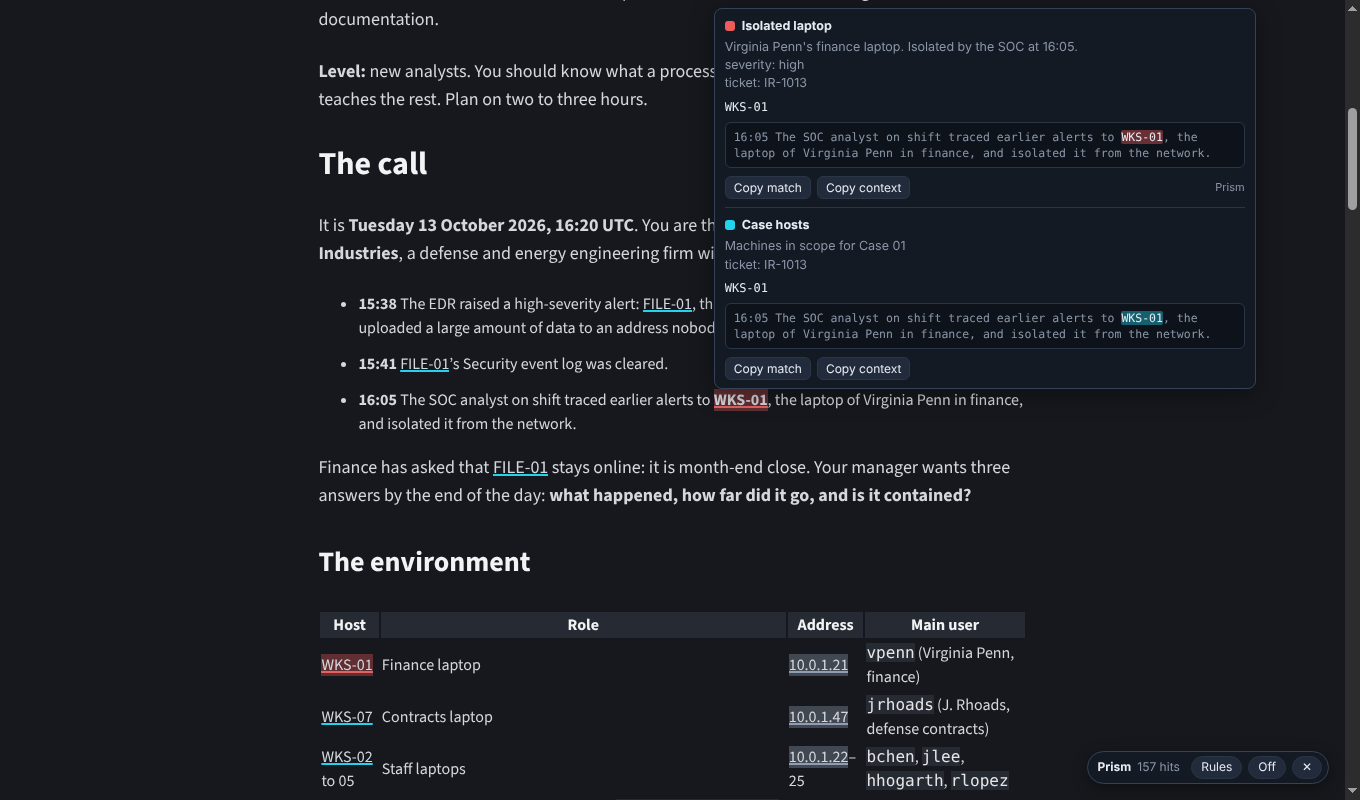
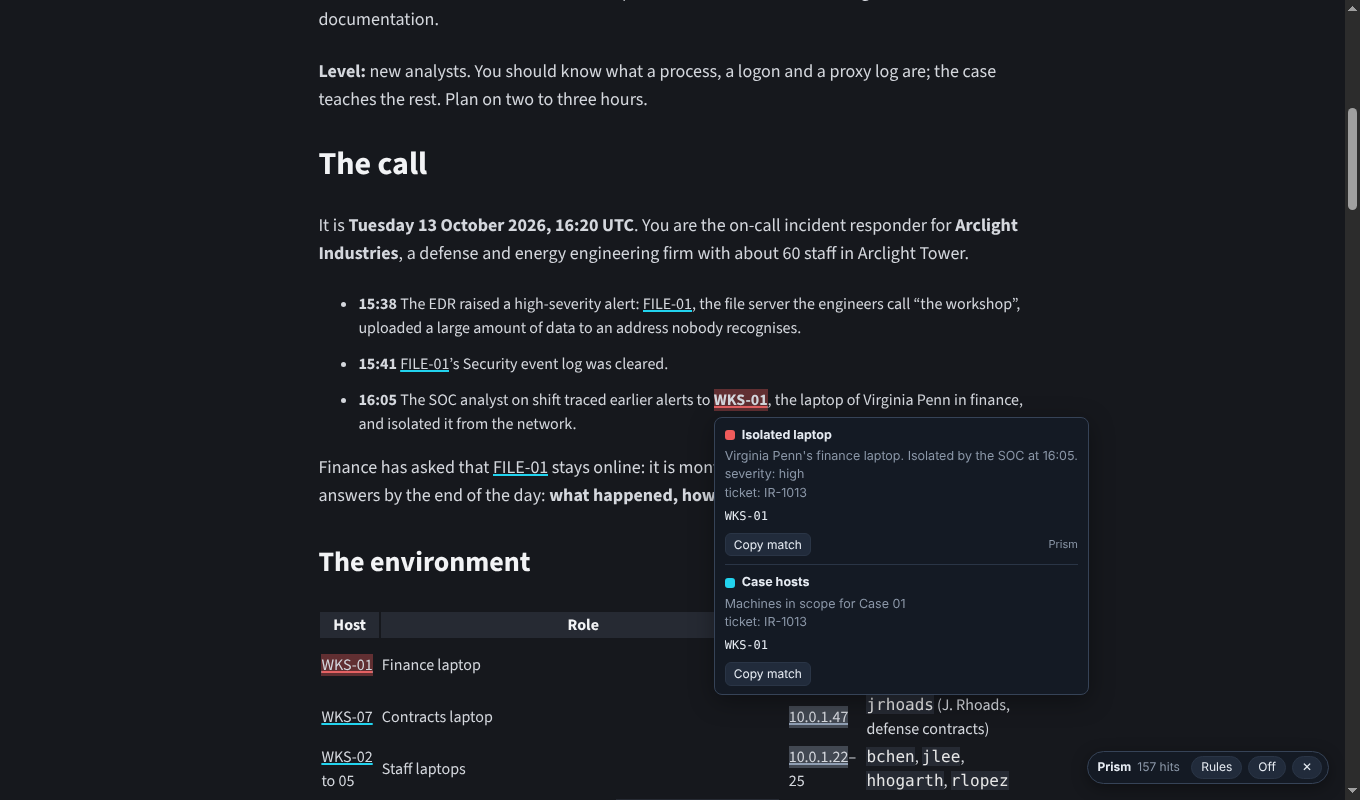
Hover card: context off by default; --context [N] turns it on
On a live page the text around a hit is already on screen, so the card showed it twice.
--context alone shows 100 characters each side, --context N sets the length, and --context 0
now really means off (it used to fall back to 100).

Claude-Session: https://claude.ai/code/session_0174XPAiV5Ghbm6NBtzpFKot

diff --git a/engine.js b/engine.js
@@ -9,7 +9,7 @@
  * - Makes no network requests and saves nothing. Rules come from the controller and live in memory only.
  *
  * globalThis.__PRISM_BOOT__ (set by the controller just before this file):
- *   { rules, starter, enabled, ui, contextChars }  rules and starter are .prism.json text the controller built from files
+ *   { rules, starter, enabled, ui, contextChars (0 = no context on the hover card) }  rules and starter are .prism.json text the controller built from files
  * Source: https://jon.glass/prism/ · MIT © 2026 Jon Glass
  */
 // The run's promise, so the controller can wait for rules to be checked and running before it reports back
@@ -17,7 +17,9 @@ globalThis.__PRISM_READY__ = (async () => {
   'use strict';
 
   const BOOT = globalThis.__PRISM_BOOT__ || {};
-  const CONTEXT_CHARS = BOOT.contextChars || 100;
+  // Characters of surrounding text shown on the hover card. Off (0) unless the controller's --context asks for it:
+  // on a live page the text around a hit is already on screen.
+  const CONTEXT_CHARS = Math.max(0, Number(BOOT.contextChars) || 0);
   // Web pages and local files only: leave edge://, about:, devtools and extension pages alone
   if (!/^(https?|file):$/.test(location.protocol)) return;
   let TOP = true; try { TOP = window.top === window; } catch (e) { TOP = false; }
@@ -209,7 +211,7 @@ globalThis.__PRISM_READY__ = (async () => {
     const byId = new Map(rules.map((r) => [r.id, r]));
     list = list.slice().sort((x, y) => byId.get(y.rid).prio - byId.get(x.rid).prio).slice(0, 4);
     card.innerHTML = list.map((h, i) => {
-      const r = byId.get(h.rid), cx = context(node, h), [R, G, B] = rgb(r.color);
+      const r = byId.get(h.rid), cx = ctxChars > 0 ? context(node, h) : null, [R, G, B] = rgb(r.color);
       let groups = '';
       if (h.g) {
         const rows = [], named = h.g.n ? Object.entries(h.g.n).filter(([, v]) => v != null) : [], vals = named.map(([, v]) => v);
@@ -221,8 +223,8 @@ globalThis.__PRISM_READY__ = (async () => {
         <div class="head"><span class="chip" data-bg="${r.color}"></span><b>${esc(r.name)}</b></div>
         ${r.desc ? `<div class="desc">${esc(r.desc)}</div>` : ''}
         <div class="val mono">${esc(node.data.slice(h.s, h.e))}</div>${groups}
-        <div class="ctx mono">${esc(cx.before)}<mark data-bg="rgba(${R},${G},${B},.4)">${esc(cx.match)}</mark>${esc(cx.after)}</div>
-        <div class="act"><button data-copy="val">Copy match</button><button data-copy="ctx">Copy context</button>${i === 0 ? '<span class="brand">Prism</span>' : ''}</div>
+        ${cx ? `<div class="ctx mono">${esc(cx.before)}<mark data-bg="rgba(${R},${G},${B},.4)">${esc(cx.match)}</mark>${esc(cx.after)}</div>` : ''}
+        <div class="act"><button data-copy="val">Copy match</button>${cx ? '<button data-copy="ctx">Copy context</button>' : ''}${i === 0 ? '<span class="brand">Prism</span>' : ''}</div>
       </div>`;
     }).join('');
     card.querySelectorAll('[data-bg]').forEach((e) => { e.style.background = e.dataset.bg; }); // CSSOM: allowed under a strict CSP
@@ -240,8 +242,8 @@ globalThis.__PRISM_READY__ = (async () => {
   shadow.addEventListener('click', async (e) => {
     const b = e.target.closest('button'); if (!b || !card._data) return;
     const { node, list } = card._data, h = list[+b.closest('.hit').dataset.i];
-    const cx = context(node, h);
-    const text = b.dataset.copy === 'val' ? node.data.slice(h.s, h.e) : cx.before.replace(/^…/, '') + cx.match + cx.after.replace(/…$/, '');
+    const cx = b.dataset.copy === 'ctx' ? context(node, h) : null;
+    const text = !cx ? node.data.slice(h.s, h.e) : cx.before.replace(/^…/, '') + cx.match + cx.after.replace(/…$/, '');
     try { await navigator.clipboard.writeText(text); b.textContent = 'Copied'; } catch (err) { b.textContent = 'Copy blocked'; }
   });
   host.addEventListener('mouseenter', () => { overCard = true; clearTimeout(hideT); });

diff --git a/prism_cdp.py b/prism_cdp.py
@@ -625,7 +625,9 @@ async def main():
     ap.add_argument("--headless", action="store_true", help="run the launched browser headless (testing)")
     ap.add_argument("--no-ui", action="store_true", help="no floating Prism control in pages")
     ap.add_argument("--off", action="store_true", help="start with highlighting off")
-    ap.add_argument("--context", type=int, default=100, help="characters of context in the hover card (default 100)")
+    ap.add_argument("--context", type=int, nargs="?", const=100, default=0, metavar="N",
+                    help="show the text around each hit on the hover card: N characters each side (bare --context: 100). "
+                         "Off by default, since on a live page that text is already on screen")
     ap.add_argument("--verbose", "-v", action="store_true")
     args = ap.parse_args()
     if args.starter:

diff --git a/README.md b/README.md
@@ -2,7 +2,7 @@
 
 Prism highlighting on every page you visit in Microsoft Edge or Google Chrome, driven from a small Python controller over the Chrome DevTools Protocol. No extension needed.
 
-Same engine as [Prism](https://jon.glass/prism/): regex rules color matches as pages load and change, and hovering a hit shows its rule, capture groups and the text around it. Your signatures come from a CSV file, and any extra columns (severity, MITRE ID, ticket…) show on the hover card.
+Same engine as [Prism](https://jon.glass/prism/): regex rules color matches as pages load and change, and hovering a hit shows its rule, its notes and capture groups. Your signatures come from a CSV file, and any extra columns (severity, MITRE ID, ticket…) show on the hover card.
 
 **Good for:** Seeing your indicators and patterns in the consoles you already work in, like ticket queues, EDR and SIEM pages and web chat, without copying text out.
 
@@ -89,7 +89,7 @@ Type these at the `prism_cdp.py` prompt:
 | `open <url>` | Open a new tab |
 | `quit` (or Ctrl+C, or Ctrl+Break on Windows) | Remove Prism from every page and exit. Closes the browser if Prism launched it, unless `--keep-open`. |
 
-Each tab also gets the floating **Prism** control (bottom right) for loading rules into just that tab, turning it off, or removing it until the tab reloads. `--no-ui` hides that control. Other options: `--off` (start with highlighting off), `--context N` (hover-card context length), `--browser PATH` or `PRISM_BROWSER` (another Chromium browser), `--browser-arg ARG`, `--profile DIR`, `-v`.
+Each tab also gets the floating **Prism** control (bottom right) for loading rules into just that tab, turning it off, or removing it until the tab reloads. `--no-ui` hides that control. Other options: `--off` (start with highlighting off), `--context [N]` (also show the text around each hit on the hover card, N characters each side, 100 if you leave N out; it's off by default because on a live page that text is already on screen), `--browser PATH` or `PRISM_BROWSER` (another Chromium browser), `--browser-arg ARG`, `--profile DIR`, `-v`.
 
 ## How it stays out of the way
 
